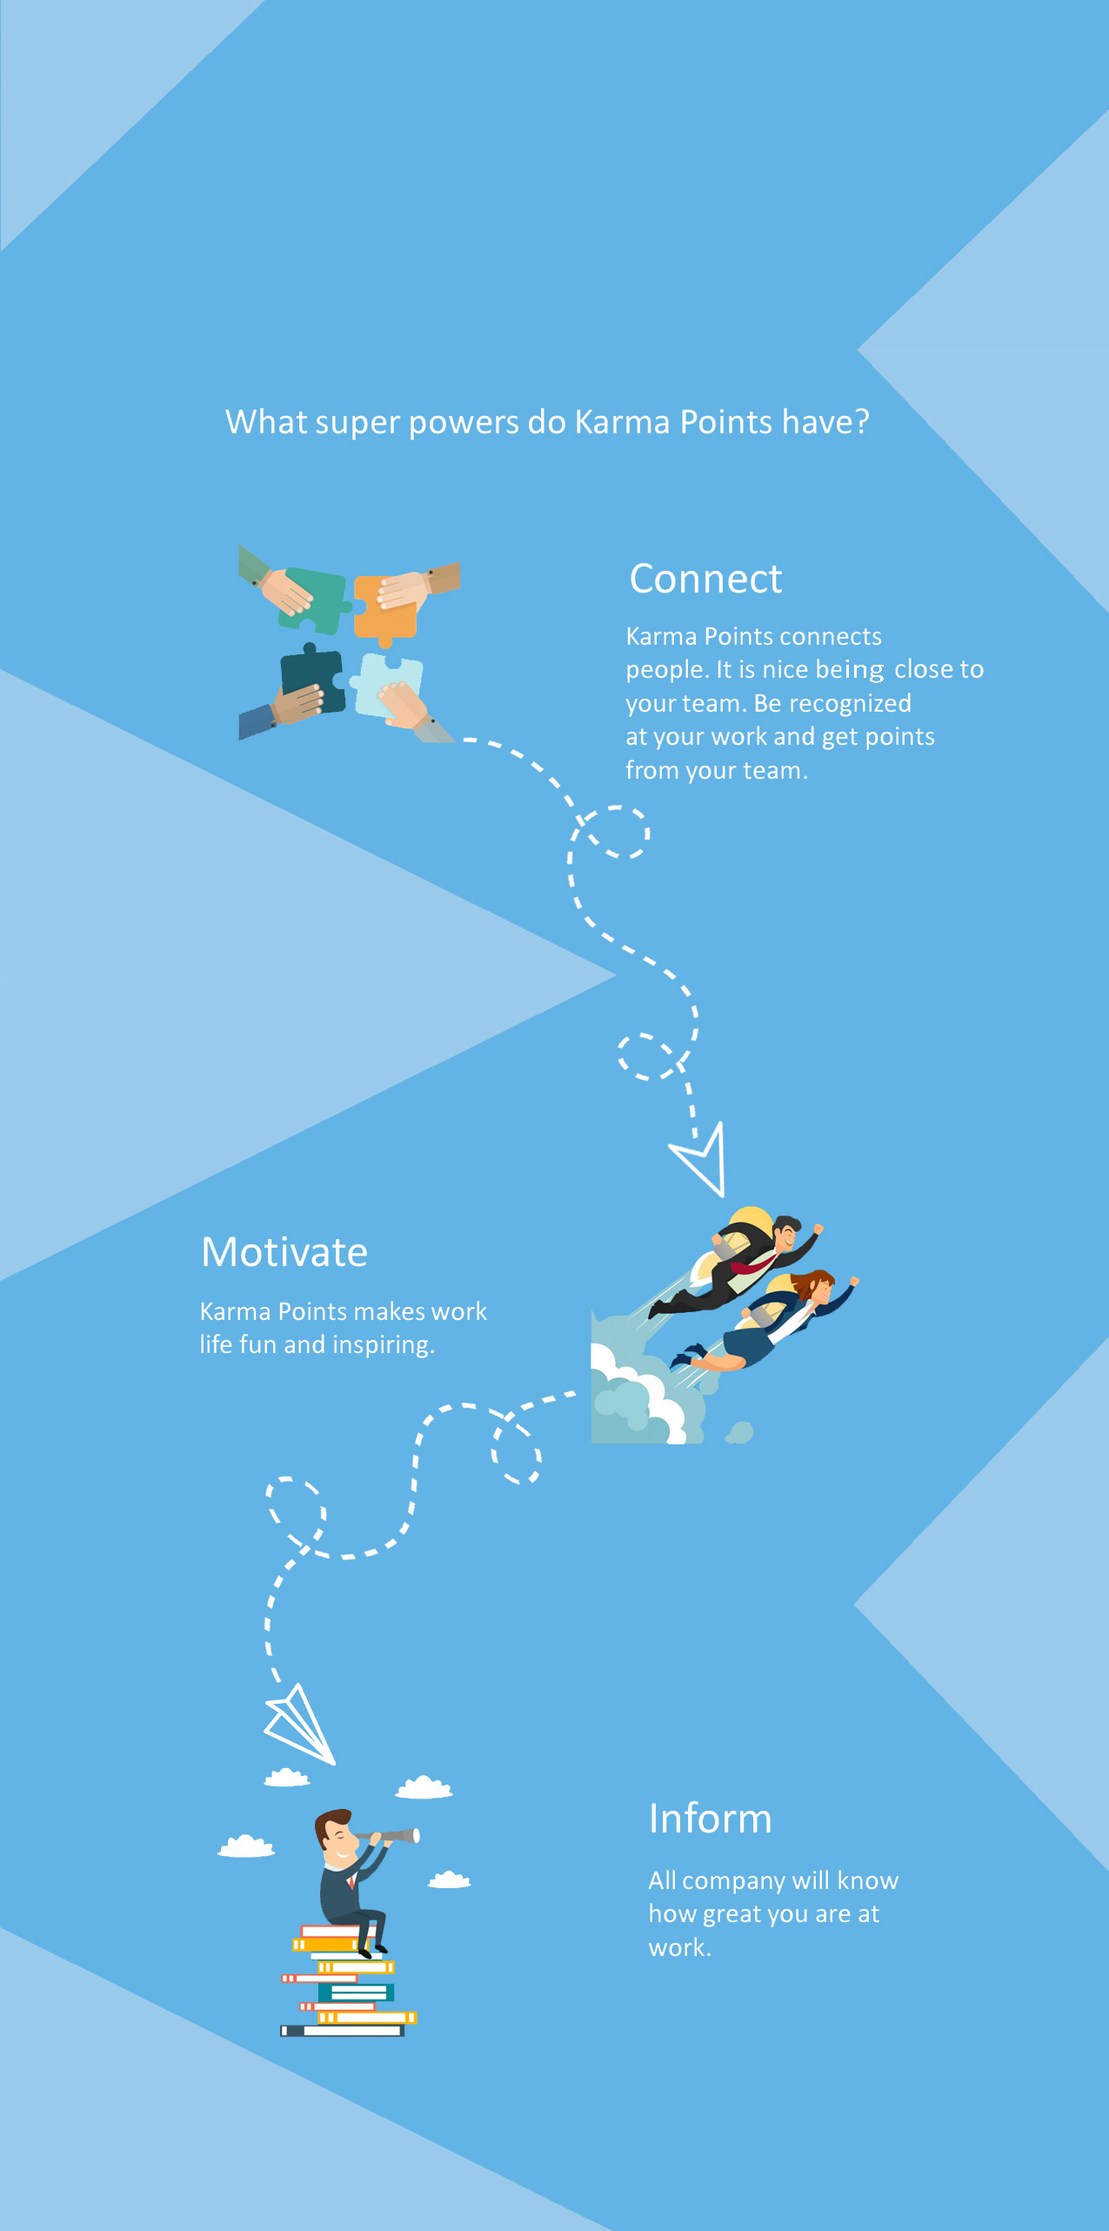
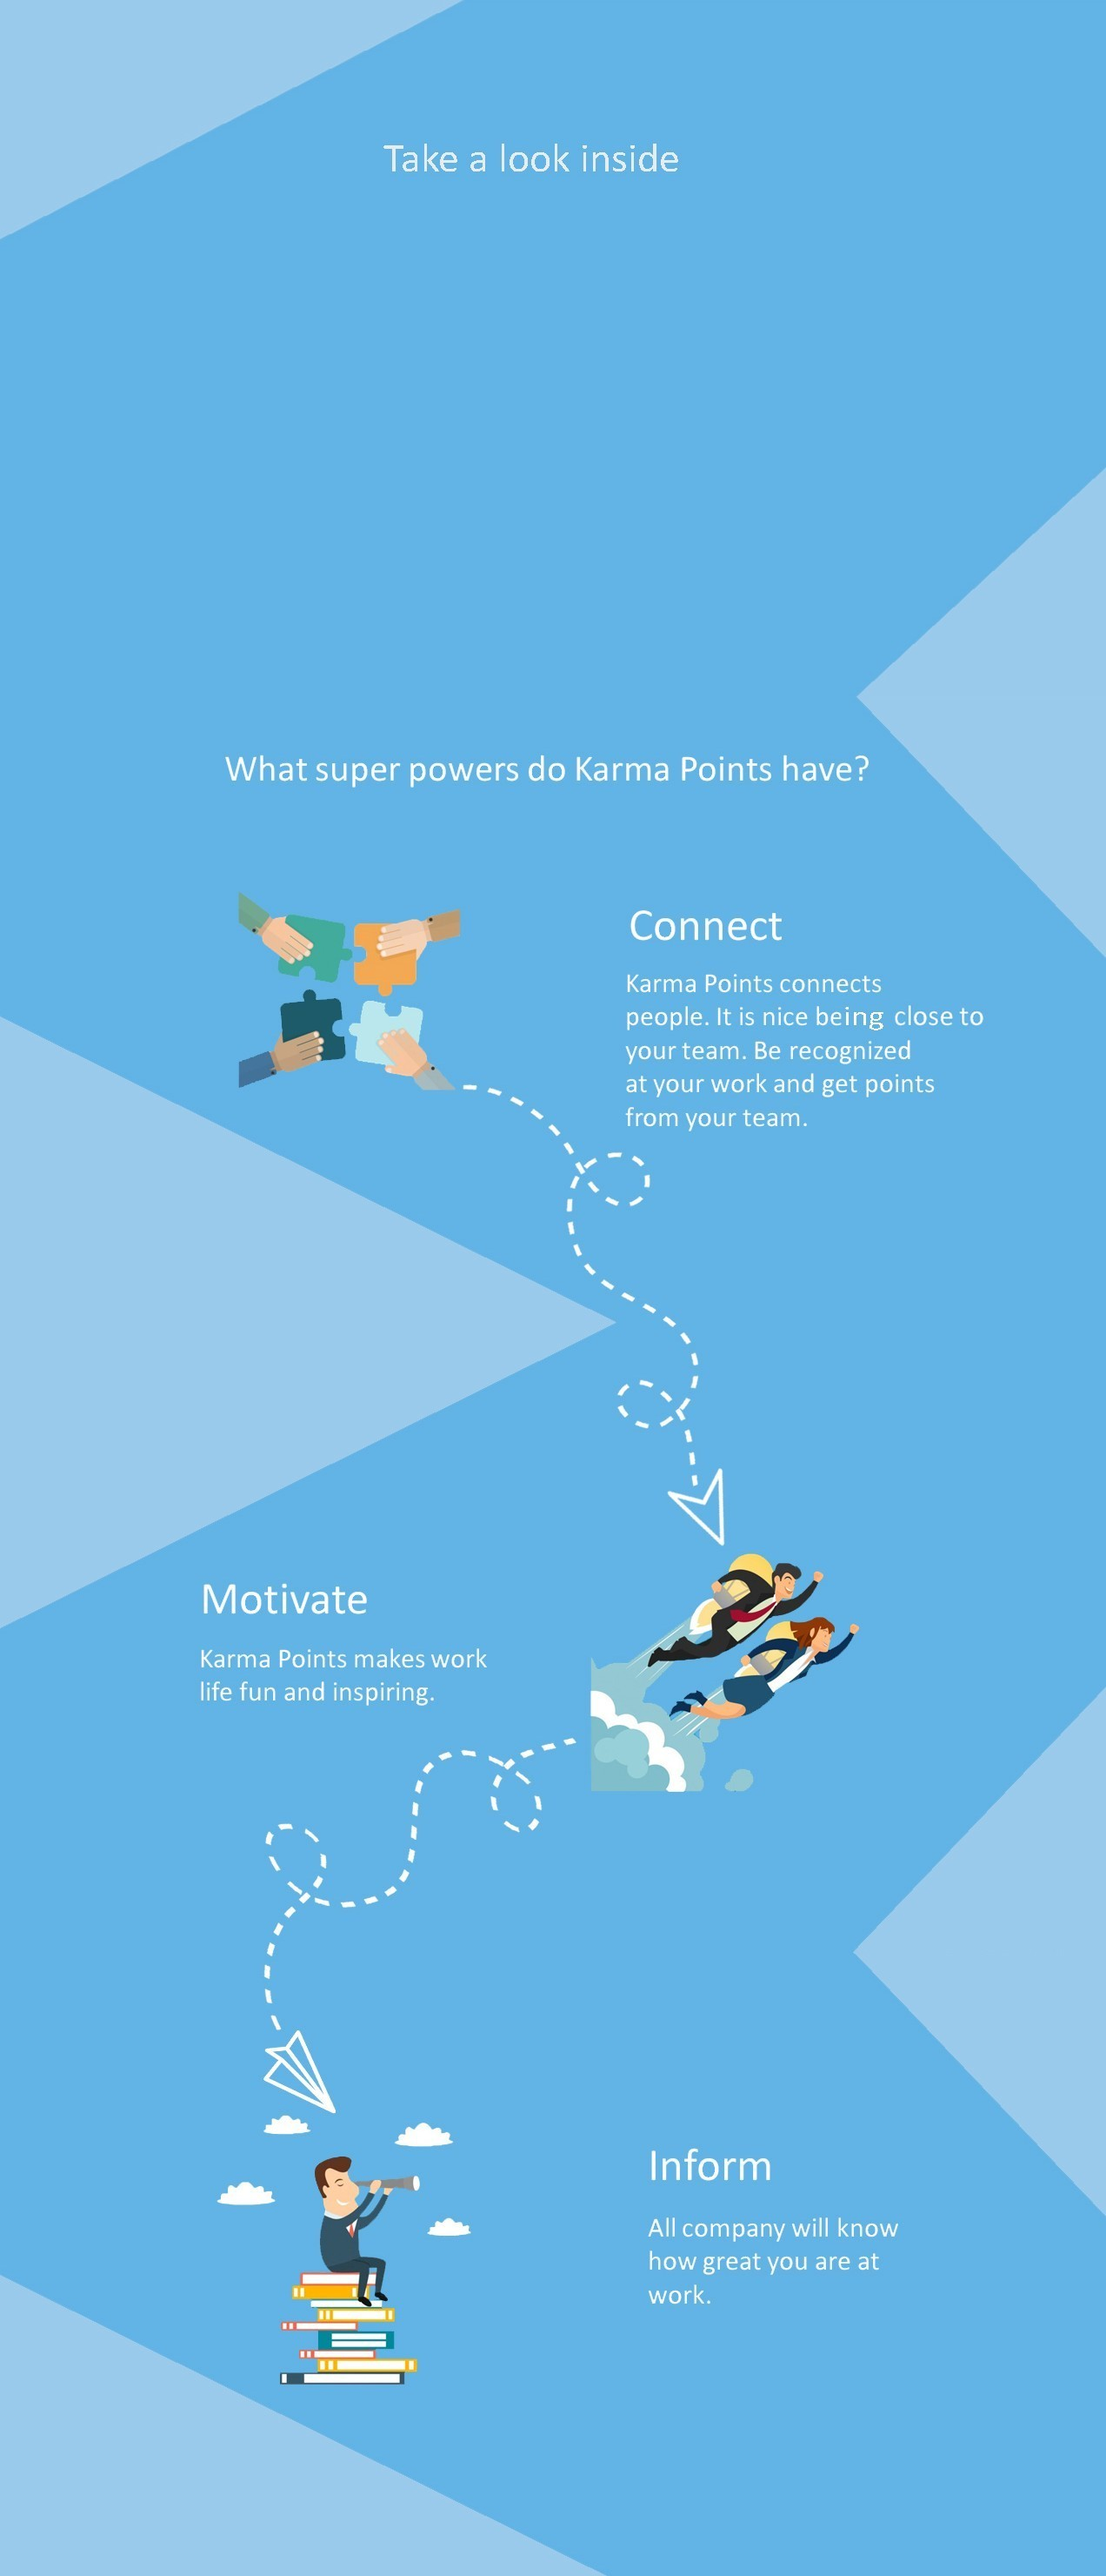
Statistics have their own place now

diff --git a/src/main/webapp/loginPage.tmpl.html b/src/main/webapp/loginPage.tmpl.html
@@ -16,10 +16,10 @@
 	</div>
 	
 	<div id="about" data-ng-controller="LoginController as vm">
-		<div class ="statistics-block">
+		<div class="statistics-block">
 			<data-ng-include src="'app/statistics/statistics.tmpl.html'"></data-ng-include>
 		</div>
-		<img src="assets/images/about-bg.jpg" />
+		<img src="assets/images/about-bg-hidden.jpg" />
 		<md-button class="md-raised join-button" ng-click="vm.moveToRegisterPage()">
 			Join Karma Points
 		</md-button>

diff --git a/src/main/webapp/assets/css/statistics.css b/src/main/webapp/assets/css/statistics.css
@@ -2,7 +2,8 @@
 	text-align: center;
 	height: 400px;
 	/* background-color: rgb(153, 202, 235); */
-	padding-top: 15px;
+	padding-top: 315px;
+	padding-left: 50px;
 }
 
 .statistics-info-cotainer > div {
